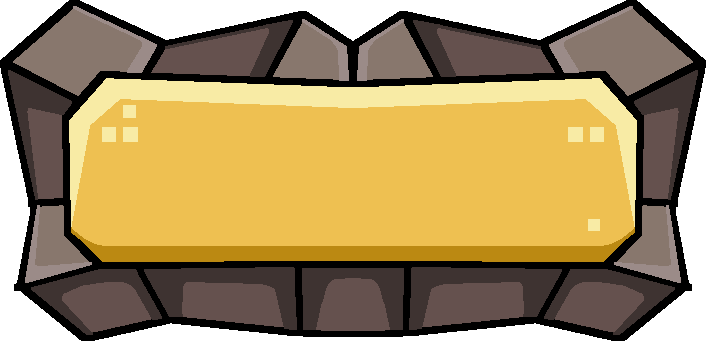
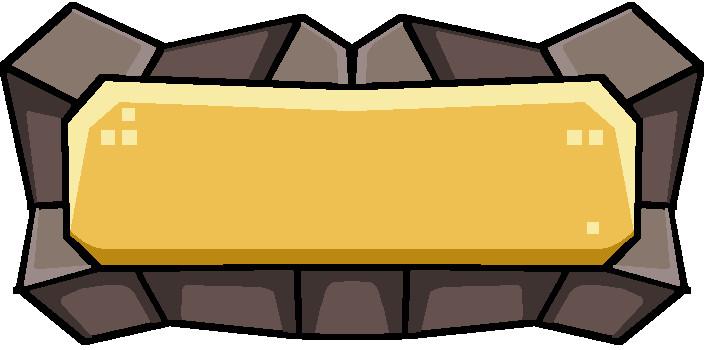
Add map btn

diff --git a/game/client/C_state.py b/game/client/C_state.py
@@ -35,6 +35,8 @@ class State:
         self.menu = Button((self.Size[0]/2, 4*self.Size[1]/5), (self.Size[0]/6, self.Size[1]/12),var.BTN,var.BTN_HOVER,"Menu",self.font,"menu")
         self.alert = [] #L'ensemble des alertes qui doivent être affiché
 
+        self.map_btn = Button((self.Size[0], 0), (self.Size[0]/6, self.Size[1]/12),var.BTN,var.BTN_HOVER,"MAP",self.font,"map","topright")
+
         #dic boutton menu : 1= rect, 2=couleur, 3=texte
         self.dicMenu = {"join": self.join,
                         "host": self.host,
@@ -49,6 +51,8 @@ class State:
                             "ip": self.show_ip}
         
         self.dicWaiting = {"menu": self.menu}
+
+        self.dicGame = {"map":self.map_btn}
         
         self.no_black_screen = ""#"loading"
 
@@ -57,46 +61,38 @@ class State:
 
         #if state not in self.no_black_screen:
             #self.screen.fill(color["BLACK"])
+        mouse_pos = pygame.mouse.get_pos()
 
         if state == "game":
 
             x,y = self.return_pos_blit()
             self.game.draw(self.screen,x,y)
 
+            self.draw_btn(self.dicGame,mouse_pos)
+
         else :
 
             self.screen.fill(color["BLACK"])
-            mouse_pos = pygame.mouse.get_pos()
 
             if state == "menu":
-                
-                for btn in self.dicMenu.values():
 
-                    btn.draw(self.screen,mouse_pos)
-
-                #test_vision(self.screen,self.Size)
-
+                self.draw_btn(self.dicMenu,mouse_pos)
 
                 #.drawAll()
 
             elif state == "wait_serv":
                 
-                for btn in self.dicWaiting.values():
-                    btn.draw(self.screen,mouse_pos)
+                self.draw_btn(self.dicWaiting,mouse_pos)
 
                 self.draw_waiting()
 
             elif state == "connexion":
 
-                for btn in self.dicConnexion.values():
-
-                    btn.draw(self.screen,mouse_pos)
+                self.draw_btn(self.dicConnexion,mouse_pos)
 
             elif state == "host":
 
-                for btn in self.dicCreation.values():
-
-                    btn.draw(self.screen,mouse_pos)
+                self.draw_btn(self.dicCreation,mouse_pos)
 
                 self.client.display_clients_name()
 
@@ -122,7 +118,7 @@ class State:
 
     def connexion_serv(self,client):
         """renvoie le mode de jeu apres connexion"""
-        ip_port = self.ip.dicRect[self.ip.id+"_input"]["text"].replace("|","")
+        ip_port = self.ip.dicRect_input[self.ip.id+"_input"]["text"].replace("|","")
 
         self.start.update_text("start","Connexion...")
         client.connected = None
@@ -172,6 +168,11 @@ class State:
     def add_alert(self,err_message,time=5):
         """prend en param le message et le temps de l'alert et l'insert dans les alert à dessiner à chaque iterations"""
         self.alert.insert(0,Alert(self.screen,err_message,time))
+
+    def draw_btn(self,dic:dict,mouse_pos):
+
+        for btn in dic.values():
+            btn.draw(self.screen,mouse_pos)
 
 
 

diff --git a/game/client/C_button.py b/game/client/C_button.py
@@ -2,7 +2,7 @@ import pygame
 
 class Button:
     """Est utilise pour les bouttons du menu"""
-    def __init__(self,pos,size,img,img_hover,text,font,id):
+    def __init__(self,pos,size,img,img_hover,text,font,id,where_blit="center"):
         self.id = id
         self.size = size
         self.text = text
@@ -15,8 +15,6 @@ class Button:
         self.img_hover = pygame.transform.scale(self.img_hover,size)
 
         self.lImg = [self.img,self.img_hover]
-
-        self.rect = self.img.get_rect(center=pos)
         self.alignement = "center"
 
         self.clicked = False
@@ -25,6 +23,19 @@ class Button:
         self.text_color = (0,0,0)
 
         self.dicRect_input = {}
+
+        self.set_rect(where_blit,pos)
+    
+    def set_rect(self,where_blit,pos):
+        if where_blit=="center":
+            self.rect = self.img.get_rect(center=pos)
+        
+        elif where_blit=="topright":
+            self.rect = self.img.get_rect(topright=pos)
+
+        else :
+            print("UNKNOWN pos (try center, topright ?)")
+
 
     def change_image(self):
         self.lImg[0],self.lImg[1] = self.lImg[1],self.lImg[0]

diff --git a/game/client/C_main.py b/game/client/C_main.py
@@ -76,7 +76,19 @@ class Main:
 
                 if event.type == pygame.MOUSEBUTTONDOWN:
 
-                    if self.mod == "menu":
+                    if self.mod=="game":
+                        if self.state.map_btn.get_rect().collidepoint(event.pos):
+
+                            if self.state.game.draw_map :
+                                self.state.game.draw_map = False
+                                self.state.map_btn.update_text("map","MAP")
+
+                            else :
+                                self.state.game.draw_map = True
+                                self.state.map_btn.update_text("map","ESCAPE")
+
+
+                    elif self.mod == "menu":
                         if self.state.host.get_rect().collidepoint(event.pos):
                             #("Play button clicked")
 

diff --git a/game/client/C_game.py b/game/client/C_game.py
@@ -32,6 +32,9 @@ class Game :
         self.monsters = Monster_all(cell_size,self.canva_size)
 
         self.player_all = Player_all(self.canva_size,cell_size)
+
+
+        self.draw_map = False
         #self.player_all.add_Player("Coming soon",
         #                       Img_perso = "assets/playerImg.png",
         #                       pos = (500,500))
@@ -76,6 +79,10 @@ class Game :
         self.blit_players(screen,x,y)
 
         #screen.blit(self.light,(0,0))
+        
+        if self.draw_map :
+            screen.fill((0,0,0))
+
 
     def convert_from_base(self,nbr):
         return nbr//self.base_movement

diff --git a/game/client/C_load.py b/game/client/C_load.py
@@ -2,7 +2,7 @@ import pygame,math
 
 class Load :
     """Permet quand appele a chaque iteration de dessiner un cercle qui tourne (appele quand on attend le serv pour join"""
-    def __init__(self,screen,nbr = 8, distance = 50, speed = 1):
+    def __init__(self,screen,nbr = 8, distance = 50, speed = 1,size = 10):
         """Nbr correspond au nombre de cercle dessine, distance = distance du centre et speed bah speed"""
         self.nbr = nbr
         self.angle = 0
@@ -10,12 +10,13 @@ class Load :
         self.mid = (self.screen.get_rect().center)
         self.distance = distance
         self.speed = speed
-        self.rotate_angle = 2*math.pi/720
+        self.rotate_angle = math.pi/360
+        self.size = size
 
     def draw(self):
         """Dessine le cercle"""
         for i in range(self.nbr):
-            pygame.draw.circle(self.screen,(150,150,150),self.calcul_pos(i),self.distance)
+            pygame.draw.circle(self.screen,(150,150,150),self.calcul_pos(i),self.size)
 
     def calcul_pos(self,idx):
         """Calcul la pos de 1 rond à dessiner"""